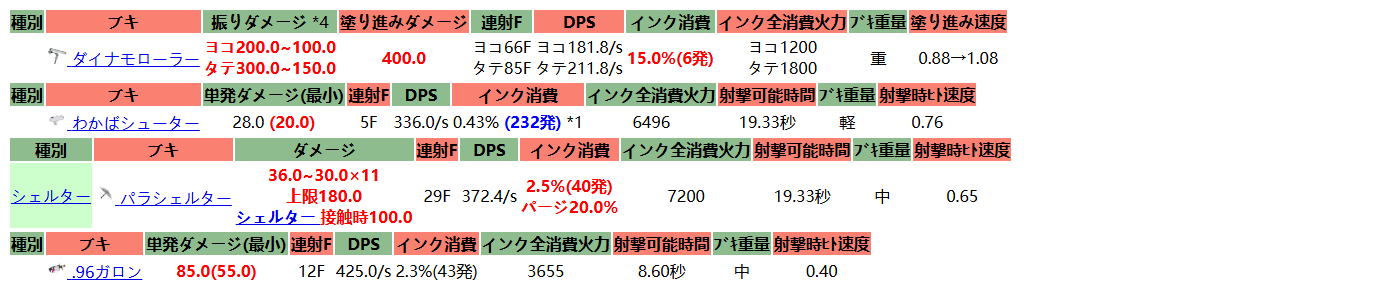
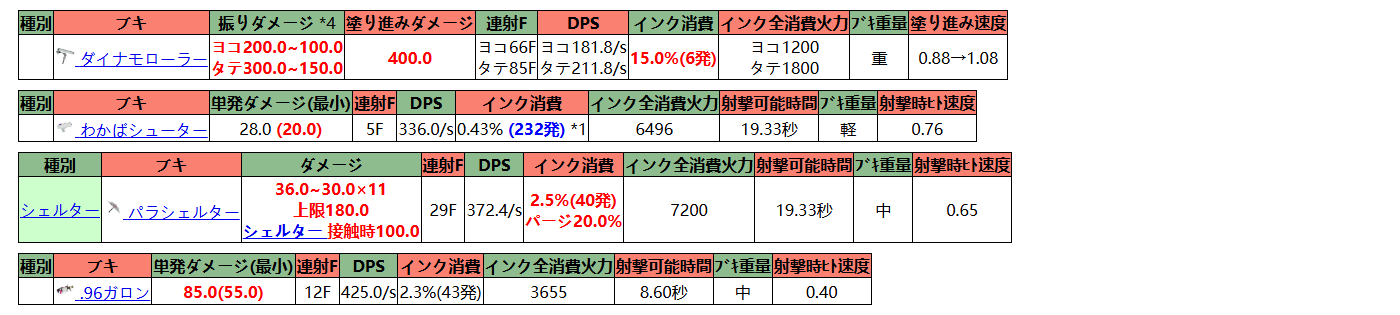
add border

diff --git a/salmonRun.html b/salmonRun.html
@@ -1,1 +1,1 @@
-<head><meta charset="UTF-8"></head><table><thead> <tr>  <td style="background-color:DarkSeaGreen; text-align:center;">   <strong>    種別   </strong>  </td>  <td style="background-color:Salmon; text-align:center;">   <strong>    ブキ   </strong>  </td>  <td style="background-color:DarkSeaGreen; text-align:center;">   <strong>    振りダメージ   </strong>   <a class="note_super tooltip" data-tippy-allowhtml="true" data-tippy-content='&lt;p&gt;距離によってダメージが変動し、時間経過によって最大0.5倍の減衰がかかる。&lt;a href="/splatoon3mix/%E3%83%96%E3%82%AD/%E3%83%95%E3%83%87%E5%B1%9E" title="ブキ/フデ属" class="rel-wiki-page"&gt;フデ&lt;/a&gt;種は減衰が掛かり始めるのが早く、平地でも射程端では表記上のダメージより低くなる&lt;/p&gt;&lt;div style="text-align: right;"&gt;&lt;a href="#notefoot_4"&gt;脚注 *4 へ&lt;/a&gt;&lt;/div&gt;' data-tippy-interactive="true" data-tippy-theme="light" id="notetext_4">    *4   </a>  </td>  <td style="background-color:Salmon; text-align:center;">   <strong>    塗り進みダメージ   </strong>  </td>  <td style="background-color:DarkSeaGreen; text-align:center;">   <strong>    連射F   </strong>  </td>  <td style="background-color:Salmon; text-align:center;">   <strong>    DPS   </strong>  </td>  <td style="background-color:DarkSeaGreen; text-align:center;">   <strong>    インク消費   </strong>  </td>  <td style="background-color:Salmon; text-align:center;">   <strong>    インク全消費火力   </strong>  </td>  <td style="background-color:DarkSeaGreen; text-align:center;">   <strong>    ﾌﾞｷ重量   </strong>  </td>  <td style="background-color:Salmon; text-align:center;">   <strong>    塗り進み速度   </strong>  </td> </tr></thead><tr><td></td> <td style="text-align:center;">  <a data-lightbox="imageset" href="https://cdn.wikiwiki.jp/to/w/splatoon3mix/icon/::attach/%E3%83%80%E3%82%A4%E3%83%8A%E3%83%A2%E3%83%AD%E3%83%BC%E3%83%A9%E3%83%BC.png?rev=4caedd3918f8834252a601f42b95f43a&amp;t=20220905220149" title="ダイナモローラー">   <img alt="ダイナモローラー" height="20" loading="lazy" src="https://cdn.wikiwiki.jp/to/w/splatoon3mix/icon/::ref/%E3%83%80%E3%82%A4%E3%83%8A%E3%83%A2%E3%83%AD%E3%83%BC%E3%83%A9%E3%83%BC.png?rev=4caedd3918f8834252a601f42b95f43a&amp;t=20220905220149" title="ダイナモローラー" width="20"/>  </a>  <a class="rel-wiki-page" href="/splatoon3mix/%E3%83%96%E3%82%AD/%E3%83%80%E3%82%A4%E3%83%8A%E3%83%A2%E3%83%AD%E3%83%BC%E3%83%A9%E3%83%BC" title="ブキ/ダイナモローラー">   ダイナモローラー  </a> </td> <td style="text-align:center;">  <span class="wikicolor" style="color:Red">   <strong>    ヨコ200.0~100.0    <br class="spacer"/>    タテ300.0~150.0   </strong>  </span> </td> <td style="text-align:center;">  <span class="wikicolor" style="color:Red">   <strong>    400.0   </strong>  </span> </td> <td style="text-align:center;">  ヨコ66F  <br class="spacer"/>  タテ85F </td> <td style="text-align:center;">  ヨコ181.8/s  <br class="spacer"/>  タテ211.8/s </td> <td style="text-align:center;">  <span class="wikicolor" style="color:Red">   <strong>    15.0%(6発)   </strong>  </span> </td> <td style="text-align:center;">  ヨコ1200  <br class="spacer"/>  タテ1800 </td> <td style="text-align:center;">  重 </td> <td style="text-align:center;">  0.88→1.08 </td></tr></table><table><thead> <tr>  <td style="background-color:DarkSeaGreen; text-align:center;">   <strong>    種別   </strong>  </td>  <td style="background-color:Salmon; text-align:center;">   <strong>    ブキ   </strong>  </td>  <td style="background-color:DarkSeaGreen; text-align:center;">   <strong>    単発ダメージ(最小)   </strong>  </td>  <td style="background-color:Salmon; text-align:center;">   <strong>    連射F   </strong>  </td>  <td style="background-color:DarkSeaGreen; text-align:center;">   <strong>    DPS   </strong>  </td>  <td style="background-color:Salmon; text-align:center;">   <strong>    インク消費   </strong>  </td>  <td style="background-color:DarkSeaGreen; text-align:center;">   <strong>    インク全消費火力   </strong>  </td>  <td style="background-color:Salmon; text-align:center;">   <strong>    射撃可能時間   </strong>  </td>  <td style="background-color:DarkSeaGreen; text-align:center;">   <strong>    ﾌﾞｷ重量   </strong>  </td>  <td style="background-color:Salmon; text-align:center;">   <strong>    射撃時ﾋﾄ速度   </strong>  </td> </tr></thead><tr><td></td> <td style="text-align:center;">  <a data-lightbox="imageset" href="https://cdn.wikiwiki.jp/to/w/splatoon3mix/icon/::attach/%E3%82%8F%E3%81%8B%E3%81%B0%E3%82%B7%E3%83%A5%E3%83%BC%E3%82%BF%E3%83%BC.png?rev=71c835cfbea476bbea062d8b083a62c6&amp;t=20220905214729" title="わかばシューター">   <img alt="わかばシューター" height="20" loading="lazy" src="https://cdn.wikiwiki.jp/to/w/splatoon3mix/icon/::ref/%E3%82%8F%E3%81%8B%E3%81%B0%E3%82%B7%E3%83%A5%E3%83%BC%E3%82%BF%E3%83%BC.png?rev=71c835cfbea476bbea062d8b083a62c6&amp;t=20220905214729" title="わかばシューター" width="20"/>  </a>  <a class="rel-wiki-page" href="/splatoon3mix/%E3%83%96%E3%82%AD/%E3%82%8F%E3%81%8B%E3%81%B0%E3%82%B7%E3%83%A5%E3%83%BC%E3%82%BF%E3%83%BC" title="ブキ/わかばシューター">   わかばシューター  </a> </td> <td style="text-align:center;">  28.0  <span class="wikicolor" style="color:Red">   <strong>    (20.0)   </strong>  </span> </td> <td style="text-align:center;">  5F </td> <td style="text-align:center;">  336.0/s </td> <td style="text-align:center;">  0.43%  <span class="wikicolor" style="color:Blue">   <strong>    (232発)   </strong>  </span>  <a class="note_super tooltip" data-tippy-allowhtml="true" data-tippy-content='&lt;p&gt;&lt;a href="/splatoon3mix/%E3%82%B5%E3%83%BC%E3%83%A2%E3%83%B3%E3%83%A9%E3%83%B3" title="サーモンラン" class="rel-wiki-page"&gt;サーモンラン&lt;/a&gt;においてはインクタンク10%UPの効果が適用されないため、実質的に下方修正されている&lt;/p&gt;&lt;div style="text-align: right;"&gt;&lt;a href="#notefoot_1"&gt;脚注 *1 へ&lt;/a&gt;&lt;/div&gt;' data-tippy-interactive="true" data-tippy-theme="light" id="notetext_1">   *1  </a> </td> <td style="text-align:center;">  6496 </td> <td style="text-align:center;">  19.33秒 </td> <td style="text-align:center;">  軽 </td> <td style="text-align:center;">  0.76 </td></tr></table><table><thead> <tr>  <td style="background-color:DarkSeaGreen; text-align:center;">   <strong>    種別   </strong>  </td>  <td style="background-color:Salmon; text-align:center;">   <strong>    ブキ   </strong>  </td>  <td style="background-color:DarkSeaGreen; text-align:center;">   <strong>    ダメージ   </strong>  </td>  <td style="background-color:Salmon; text-align:center;">   <strong>    連射F   </strong>  </td>  <td style="background-color:DarkSeaGreen; text-align:center;">   <strong>    DPS   </strong>  </td>  <td style="background-color:Salmon; text-align:center;">   <strong>    インク消費   </strong>  </td>  <td style="background-color:DarkSeaGreen; text-align:center;">   <strong>    インク全消費火力   </strong>  </td>  <td style="background-color:Salmon; text-align:center;">   <strong>    射撃可能時間   </strong>  </td>  <td style="background-color:DarkSeaGreen; text-align:center;">   <strong>    ﾌﾞｷ重量   </strong>  </td>  <td style="background-color:Salmon; text-align:center;">   <strong>    射撃時ﾋﾄ速度   </strong>  </td> </tr></thead><tr> <td rowspan="5" style="background-color:#ccffcc; text-align:center;">  <a class="rel-wiki-page" href="/splatoon3mix/%E3%83%96%E3%82%AD/%E3%82%B7%E3%82%A7%E3%83%AB%E3%82%BF%E3%83%BC%E5%B1%9E" title="ブキ/シェルター属">   シェルター  </a> </td> <td style="text-align:center;">  <a data-lightbox="imageset" href="https://cdn.wikiwiki.jp/to/w/splatoon3mix/icon/::attach/%E3%83%91%E3%83%A9%E3%82%B7%E3%82%A7%E3%83%AB%E3%82%BF%E3%83%BC.png?rev=b37a3174dd7867802d15de24c5bb0f3a&amp;t=20220906104623" title="パラシェルター">   <img alt="パラシェルター" height="20" loading="lazy" src="https://cdn.wikiwiki.jp/to/w/splatoon3mix/icon/::ref/%E3%83%91%E3%83%A9%E3%82%B7%E3%82%A7%E3%83%AB%E3%82%BF%E3%83%BC.png?rev=b37a3174dd7867802d15de24c5bb0f3a&amp;t=20220906104623" title="パラシェルター" width="20"/>  </a>  <a class="rel-wiki-page" href="/splatoon3mix/%E3%83%96%E3%82%AD/%E3%83%91%E3%83%A9%E3%82%B7%E3%82%A7%E3%83%AB%E3%82%BF%E3%83%BC" title="ブキ/パラシェルター">   パラシェルター  </a> </td> <td style="text-align:center;">  <span class="wikicolor" style="color:Red">   <strong>    36.0~30.0×11    <br class="spacer"/>    上限180.0    <br class="spacer"/>    <a class="rel-wiki-page" href="/splatoon3mix/%E3%83%96%E3%82%AD/%E3%82%B7%E3%82%A7%E3%83%AB%E3%82%BF%E3%83%BC%E5%B1%9E" title="ブキ/シェルター属">     シェルター    </a>    接触時100.0   </strong>  </span> </td> <td style="text-align:center;">  29F </td> <td style="text-align:center;">  372.4/s </td> <td style="text-align:center;">  <span class="wikicolor" style="color:Red">   <strong>    2.5%(40発)    <br class="spacer"/>    パージ20.0%   </strong>  </span> </td> <td style="text-align:center;">  7200 </td> <td style="text-align:center;">  19.33秒 </td> <td style="text-align:center;">  中 </td> <td style="text-align:center;">  0.65 </td></tr></table><table><thead> <tr>  <td style="background-color:DarkSeaGreen; text-align:center;">   <strong>    種別   </strong>  </td>  <td style="background-color:Salmon; text-align:center;">   <strong>    ブキ   </strong>  </td>  <td style="background-color:DarkSeaGreen; text-align:center;">   <strong>    単発ダメージ(最小)   </strong>  </td>  <td style="background-color:Salmon; text-align:center;">   <strong>    連射F   </strong>  </td>  <td style="background-color:DarkSeaGreen; text-align:center;">   <strong>    DPS   </strong>  </td>  <td style="background-color:Salmon; text-align:center;">   <strong>    インク消費   </strong>  </td>  <td style="background-color:DarkSeaGreen; text-align:center;">   <strong>    インク全消費火力   </strong>  </td>  <td style="background-color:Salmon; text-align:center;">   <strong>    射撃可能時間   </strong>  </td>  <td style="background-color:DarkSeaGreen; text-align:center;">   <strong>    ﾌﾞｷ重量   </strong>  </td>  <td style="background-color:Salmon; text-align:center;">   <strong>    射撃時ﾋﾄ速度   </strong>  </td> </tr></thead><tr><td></td> <td style="text-align:center;">  <a data-lightbox="imageset" href="https://cdn.wikiwiki.jp/to/w/splatoon3mix/icon/::attach/.96%E3%82%AC%E3%83%AD%E3%83%B3.png?rev=064da5391cf8591ffe192d7e74f644c5&amp;t=20220905214558" title=".96ガロン">   <img alt=".96ガロン" height="20" loading="lazy" src="https://cdn.wikiwiki.jp/to/w/splatoon3mix/icon/::ref/.96%E3%82%AC%E3%83%AD%E3%83%B3.png?rev=064da5391cf8591ffe192d7e74f644c5&amp;t=20220905214558" title=".96ガロン" width="20"/>  </a>  <a class="rel-wiki-page" href="/splatoon3mix/%E3%83%96%E3%82%AD/.96%E3%82%AC%E3%83%AD%E3%83%B3" title="ブキ/.96ガロン">   .96ガロン  </a> </td> <td style="text-align:center;">  <span class="wikicolor" style="color:Red">   <strong>    85.0(55.0)   </strong>  </span> </td> <td style="text-align:center;">  12F </td> <td style="text-align:center;">  425.0/s </td> <td style="text-align:center;">  2.3%(43発) </td> <td style="text-align:center;">  3655 </td> <td style="text-align:center;">  8.60秒 </td> <td style="text-align:center;">  中 </td> <td style="text-align:center;">  0.40 </td></tr></table>
+<head><meta charset="UTF-8"></head><style>table{border-collapse: collapse;border: 1px solid black;margin:10px;}td, th {border: 1px solid black;}</style><table><thead> <tr>  <td style="background-color:DarkSeaGreen; text-align:center;">   <strong>    種別   </strong>  </td>  <td style="background-color:Salmon; text-align:center;">   <strong>    ブキ   </strong>  </td>  <td style="background-color:DarkSeaGreen; text-align:center;">   <strong>    振りダメージ   </strong>   <a class="note_super tooltip" data-tippy-allowhtml="true" data-tippy-content='&lt;p&gt;距離によってダメージが変動し、時間経過によって最大0.5倍の減衰がかかる。&lt;a href="/splatoon3mix/%E3%83%96%E3%82%AD/%E3%83%95%E3%83%87%E5%B1%9E" title="ブキ/フデ属" class="rel-wiki-page"&gt;フデ&lt;/a&gt;種は減衰が掛かり始めるのが早く、平地でも射程端では表記上のダメージより低くなる&lt;/p&gt;&lt;div style="text-align: right;"&gt;&lt;a href="#notefoot_4"&gt;脚注 *4 へ&lt;/a&gt;&lt;/div&gt;' data-tippy-interactive="true" data-tippy-theme="light" id="notetext_4">    *4   </a>  </td>  <td style="background-color:Salmon; text-align:center;">   <strong>    塗り進みダメージ   </strong>  </td>  <td style="background-color:DarkSeaGreen; text-align:center;">   <strong>    連射F   </strong>  </td>  <td style="background-color:Salmon; text-align:center;">   <strong>    DPS   </strong>  </td>  <td style="background-color:DarkSeaGreen; text-align:center;">   <strong>    インク消費   </strong>  </td>  <td style="background-color:Salmon; text-align:center;">   <strong>    インク全消費火力   </strong>  </td>  <td style="background-color:DarkSeaGreen; text-align:center;">   <strong>    ﾌﾞｷ重量   </strong>  </td>  <td style="background-color:Salmon; text-align:center;">   <strong>    塗り進み速度   </strong>  </td> </tr></thead><tr><td></td> <td style="text-align:center;">  <a data-lightbox="imageset" href="https://cdn.wikiwiki.jp/to/w/splatoon3mix/icon/::attach/%E3%83%80%E3%82%A4%E3%83%8A%E3%83%A2%E3%83%AD%E3%83%BC%E3%83%A9%E3%83%BC.png?rev=4caedd3918f8834252a601f42b95f43a&amp;t=20220905220149" title="ダイナモローラー">   <img alt="ダイナモローラー" height="20" loading="lazy" src="https://cdn.wikiwiki.jp/to/w/splatoon3mix/icon/::ref/%E3%83%80%E3%82%A4%E3%83%8A%E3%83%A2%E3%83%AD%E3%83%BC%E3%83%A9%E3%83%BC.png?rev=4caedd3918f8834252a601f42b95f43a&amp;t=20220905220149" title="ダイナモローラー" width="20"/>  </a>  <a class="rel-wiki-page" href="/splatoon3mix/%E3%83%96%E3%82%AD/%E3%83%80%E3%82%A4%E3%83%8A%E3%83%A2%E3%83%AD%E3%83%BC%E3%83%A9%E3%83%BC" title="ブキ/ダイナモローラー">   ダイナモローラー  </a> </td> <td style="text-align:center;">  <span class="wikicolor" style="color:Red">   <strong>    ヨコ200.0~100.0    <br class="spacer"/>    タテ300.0~150.0   </strong>  </span> </td> <td style="text-align:center;">  <span class="wikicolor" style="color:Red">   <strong>    400.0   </strong>  </span> </td> <td style="text-align:center;">  ヨコ66F  <br class="spacer"/>  タテ85F </td> <td style="text-align:center;">  ヨコ181.8/s  <br class="spacer"/>  タテ211.8/s </td> <td style="text-align:center;">  <span class="wikicolor" style="color:Red">   <strong>    15.0%(6発)   </strong>  </span> </td> <td style="text-align:center;">  ヨコ1200  <br class="spacer"/>  タテ1800 </td> <td style="text-align:center;">  重 </td> <td style="text-align:center;">  0.88→1.08 </td></tr></table><table><thead> <tr>  <td style="background-color:DarkSeaGreen; text-align:center;">   <strong>    種別   </strong>  </td>  <td style="background-color:Salmon; text-align:center;">   <strong>    ブキ   </strong>  </td>  <td style="background-color:DarkSeaGreen; text-align:center;">   <strong>    単発ダメージ(最小)   </strong>  </td>  <td style="background-color:Salmon; text-align:center;">   <strong>    連射F   </strong>  </td>  <td style="background-color:DarkSeaGreen; text-align:center;">   <strong>    DPS   </strong>  </td>  <td style="background-color:Salmon; text-align:center;">   <strong>    インク消費   </strong>  </td>  <td style="background-color:DarkSeaGreen; text-align:center;">   <strong>    インク全消費火力   </strong>  </td>  <td style="background-color:Salmon; text-align:center;">   <strong>    射撃可能時間   </strong>  </td>  <td style="background-color:DarkSeaGreen; text-align:center;">   <strong>    ﾌﾞｷ重量   </strong>  </td>  <td style="background-color:Salmon; text-align:center;">   <strong>    射撃時ﾋﾄ速度   </strong>  </td> </tr></thead><tr><td></td> <td style="text-align:center;">  <a data-lightbox="imageset" href="https://cdn.wikiwiki.jp/to/w/splatoon3mix/icon/::attach/%E3%82%8F%E3%81%8B%E3%81%B0%E3%82%B7%E3%83%A5%E3%83%BC%E3%82%BF%E3%83%BC.png?rev=71c835cfbea476bbea062d8b083a62c6&amp;t=20220905214729" title="わかばシューター">   <img alt="わかばシューター" height="20" loading="lazy" src="https://cdn.wikiwiki.jp/to/w/splatoon3mix/icon/::ref/%E3%82%8F%E3%81%8B%E3%81%B0%E3%82%B7%E3%83%A5%E3%83%BC%E3%82%BF%E3%83%BC.png?rev=71c835cfbea476bbea062d8b083a62c6&amp;t=20220905214729" title="わかばシューター" width="20"/>  </a>  <a class="rel-wiki-page" href="/splatoon3mix/%E3%83%96%E3%82%AD/%E3%82%8F%E3%81%8B%E3%81%B0%E3%82%B7%E3%83%A5%E3%83%BC%E3%82%BF%E3%83%BC" title="ブキ/わかばシューター">   わかばシューター  </a> </td> <td style="text-align:center;">  28.0  <span class="wikicolor" style="color:Red">   <strong>    (20.0)   </strong>  </span> </td> <td style="text-align:center;">  5F </td> <td style="text-align:center;">  336.0/s </td> <td style="text-align:center;">  0.43%  <span class="wikicolor" style="color:Blue">   <strong>    (232発)   </strong>  </span>  <a class="note_super tooltip" data-tippy-allowhtml="true" data-tippy-content='&lt;p&gt;&lt;a href="/splatoon3mix/%E3%82%B5%E3%83%BC%E3%83%A2%E3%83%B3%E3%83%A9%E3%83%B3" title="サーモンラン" class="rel-wiki-page"&gt;サーモンラン&lt;/a&gt;においてはインクタンク10%UPの効果が適用されないため、実質的に下方修正されている&lt;/p&gt;&lt;div style="text-align: right;"&gt;&lt;a href="#notefoot_1"&gt;脚注 *1 へ&lt;/a&gt;&lt;/div&gt;' data-tippy-interactive="true" data-tippy-theme="light" id="notetext_1">   *1  </a> </td> <td style="text-align:center;">  6496 </td> <td style="text-align:center;">  19.33秒 </td> <td style="text-align:center;">  軽 </td> <td style="text-align:center;">  0.76 </td></tr></table><table><thead> <tr>  <td style="background-color:DarkSeaGreen; text-align:center;">   <strong>    種別   </strong>  </td>  <td style="background-color:Salmon; text-align:center;">   <strong>    ブキ   </strong>  </td>  <td style="background-color:DarkSeaGreen; text-align:center;">   <strong>    ダメージ   </strong>  </td>  <td style="background-color:Salmon; text-align:center;">   <strong>    連射F   </strong>  </td>  <td style="background-color:DarkSeaGreen; text-align:center;">   <strong>    DPS   </strong>  </td>  <td style="background-color:Salmon; text-align:center;">   <strong>    インク消費   </strong>  </td>  <td style="background-color:DarkSeaGreen; text-align:center;">   <strong>    インク全消費火力   </strong>  </td>  <td style="background-color:Salmon; text-align:center;">   <strong>    射撃可能時間   </strong>  </td>  <td style="background-color:DarkSeaGreen; text-align:center;">   <strong>    ﾌﾞｷ重量   </strong>  </td>  <td style="background-color:Salmon; text-align:center;">   <strong>    射撃時ﾋﾄ速度   </strong>  </td> </tr></thead><tr> <td rowspan="5" style="background-color:#ccffcc; text-align:center;">  <a class="rel-wiki-page" href="/splatoon3mix/%E3%83%96%E3%82%AD/%E3%82%B7%E3%82%A7%E3%83%AB%E3%82%BF%E3%83%BC%E5%B1%9E" title="ブキ/シェルター属">   シェルター  </a> </td> <td style="text-align:center;">  <a data-lightbox="imageset" href="https://cdn.wikiwiki.jp/to/w/splatoon3mix/icon/::attach/%E3%83%91%E3%83%A9%E3%82%B7%E3%82%A7%E3%83%AB%E3%82%BF%E3%83%BC.png?rev=b37a3174dd7867802d15de24c5bb0f3a&amp;t=20220906104623" title="パラシェルター">   <img alt="パラシェルター" height="20" loading="lazy" src="https://cdn.wikiwiki.jp/to/w/splatoon3mix/icon/::ref/%E3%83%91%E3%83%A9%E3%82%B7%E3%82%A7%E3%83%AB%E3%82%BF%E3%83%BC.png?rev=b37a3174dd7867802d15de24c5bb0f3a&amp;t=20220906104623" title="パラシェルター" width="20"/>  </a>  <a class="rel-wiki-page" href="/splatoon3mix/%E3%83%96%E3%82%AD/%E3%83%91%E3%83%A9%E3%82%B7%E3%82%A7%E3%83%AB%E3%82%BF%E3%83%BC" title="ブキ/パラシェルター">   パラシェルター  </a> </td> <td style="text-align:center;">  <span class="wikicolor" style="color:Red">   <strong>    36.0~30.0×11    <br class="spacer"/>    上限180.0    <br class="spacer"/>    <a class="rel-wiki-page" href="/splatoon3mix/%E3%83%96%E3%82%AD/%E3%82%B7%E3%82%A7%E3%83%AB%E3%82%BF%E3%83%BC%E5%B1%9E" title="ブキ/シェルター属">     シェルター    </a>    接触時100.0   </strong>  </span> </td> <td style="text-align:center;">  29F </td> <td style="text-align:center;">  372.4/s </td> <td style="text-align:center;">  <span class="wikicolor" style="color:Red">   <strong>    2.5%(40発)    <br class="spacer"/>    パージ20.0%   </strong>  </span> </td> <td style="text-align:center;">  7200 </td> <td style="text-align:center;">  19.33秒 </td> <td style="text-align:center;">  中 </td> <td style="text-align:center;">  0.65 </td></tr></table><table><thead> <tr>  <td style="background-color:DarkSeaGreen; text-align:center;">   <strong>    種別   </strong>  </td>  <td style="background-color:Salmon; text-align:center;">   <strong>    ブキ   </strong>  </td>  <td style="background-color:DarkSeaGreen; text-align:center;">   <strong>    単発ダメージ(最小)   </strong>  </td>  <td style="background-color:Salmon; text-align:center;">   <strong>    連射F   </strong>  </td>  <td style="background-color:DarkSeaGreen; text-align:center;">   <strong>    DPS   </strong>  </td>  <td style="background-color:Salmon; text-align:center;">   <strong>    インク消費   </strong>  </td>  <td style="background-color:DarkSeaGreen; text-align:center;">   <strong>    インク全消費火力   </strong>  </td>  <td style="background-color:Salmon; text-align:center;">   <strong>    射撃可能時間   </strong>  </td>  <td style="background-color:DarkSeaGreen; text-align:center;">   <strong>    ﾌﾞｷ重量   </strong>  </td>  <td style="background-color:Salmon; text-align:center;">   <strong>    射撃時ﾋﾄ速度   </strong>  </td> </tr></thead><tr><td></td> <td style="text-align:center;">  <a data-lightbox="imageset" href="https://cdn.wikiwiki.jp/to/w/splatoon3mix/icon/::attach/.96%E3%82%AC%E3%83%AD%E3%83%B3.png?rev=064da5391cf8591ffe192d7e74f644c5&amp;t=20220905214558" title=".96ガロン">   <img alt=".96ガロン" height="20" loading="lazy" src="https://cdn.wikiwiki.jp/to/w/splatoon3mix/icon/::ref/.96%E3%82%AC%E3%83%AD%E3%83%B3.png?rev=064da5391cf8591ffe192d7e74f644c5&amp;t=20220905214558" title=".96ガロン" width="20"/>  </a>  <a class="rel-wiki-page" href="/splatoon3mix/%E3%83%96%E3%82%AD/.96%E3%82%AC%E3%83%AD%E3%83%B3" title="ブキ/.96ガロン">   .96ガロン  </a> </td> <td style="text-align:center;">  <span class="wikicolor" style="color:Red">   <strong>    85.0(55.0)   </strong>  </span> </td> <td style="text-align:center;">  12F </td> <td style="text-align:center;">  425.0/s </td> <td style="text-align:center;">  2.3%(43発) </td> <td style="text-align:center;">  3655 </td> <td style="text-align:center;">  8.60秒 </td> <td style="text-align:center;">  中 </td> <td style="text-align:center;">  0.40 </td></tr></table>

diff --git a/capture.js b/capture.js
@@ -17,7 +17,7 @@ import path from 'path'; // 用于处理文件路径
 
   // 设置截图尺寸
   await page.setViewport({
-    width: 1400, height: 300
+    width: 1400, height: 350
   });
 
   

diff --git a/main.py b/main.py
@@ -47,7 +47,7 @@ if __name__ == "__main__":
     url = "https://wikiwiki.jp/splatoon3mix/%E3%82%B5%E3%83%BC%E3%83%A2%E3%83%B3%E3%83%A9%E3%83%B3/%E3%83%90%E3%82%A4%E3%83%88%E5%B0%82%E7%94%A8%E3%83%96%E3%82%AD%E3%81%AE%E8%A3%9C%E6%AD%A3"
     result = subprocess.run(["node", "splt.js"], stdout=subprocess.PIPE, text=True, encoding="utf-8")
     weapons = json.loads(result.stdout)
-    html = "<head><meta charset=\"UTF-8\"></head>"
+    html = "<head><meta charset=\"UTF-8\"></head><style>table{border-collapse: collapse;border: 1px solid black;margin:10px;}td, th {border: 1px solid black;}</style>"
     for weapon in weapons:
         html+=fetch_weapon(url,weapon)
     # 保存到文件

diff --git a/README.md b/README.md
@@ -7,7 +7,9 @@ Salmon Run武器相关数据爬取
 
 - [ ] adjust href
 - [ ] add type
-- [ ] add border
+- [x] add border
+- [ ] adjust height
+- [ ] adjust width
 
 ## 参考
 
